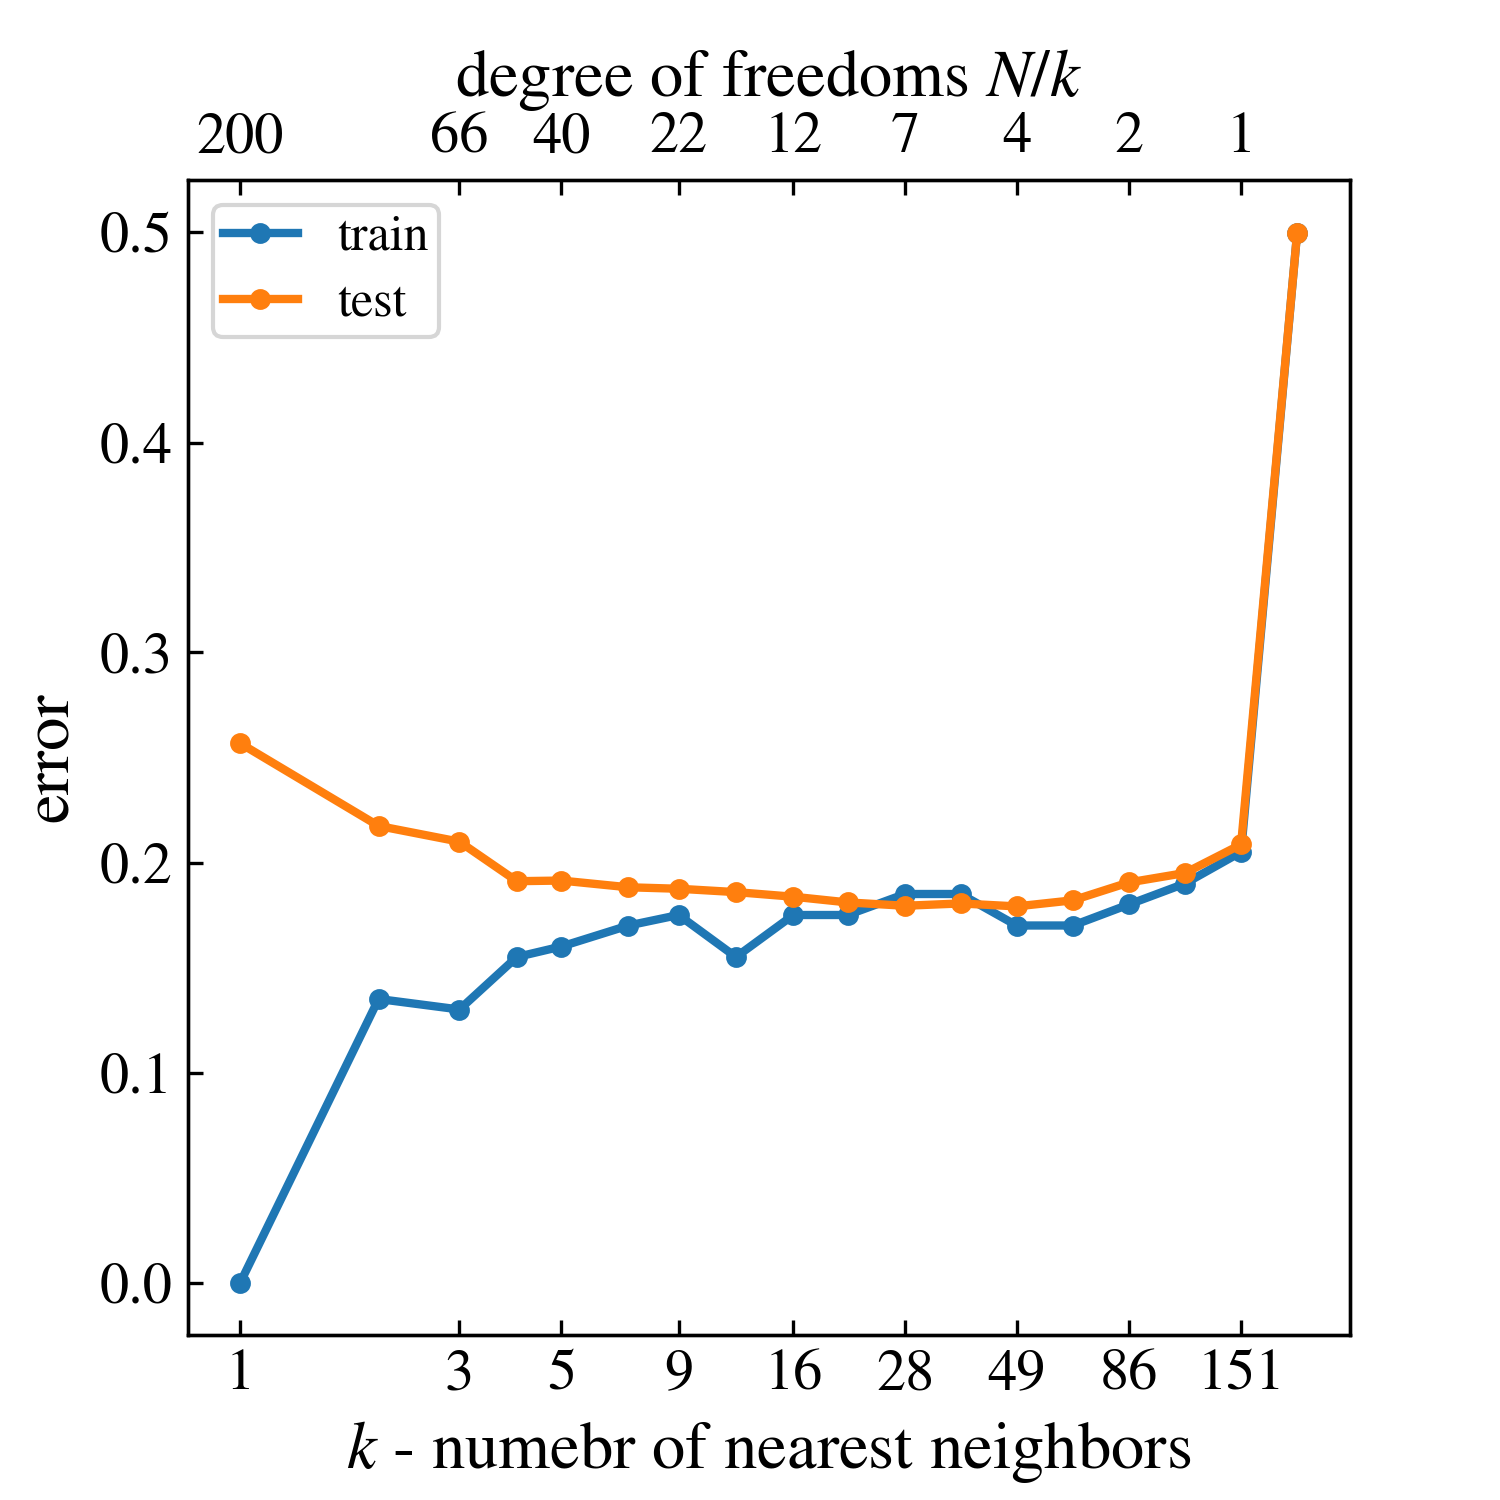
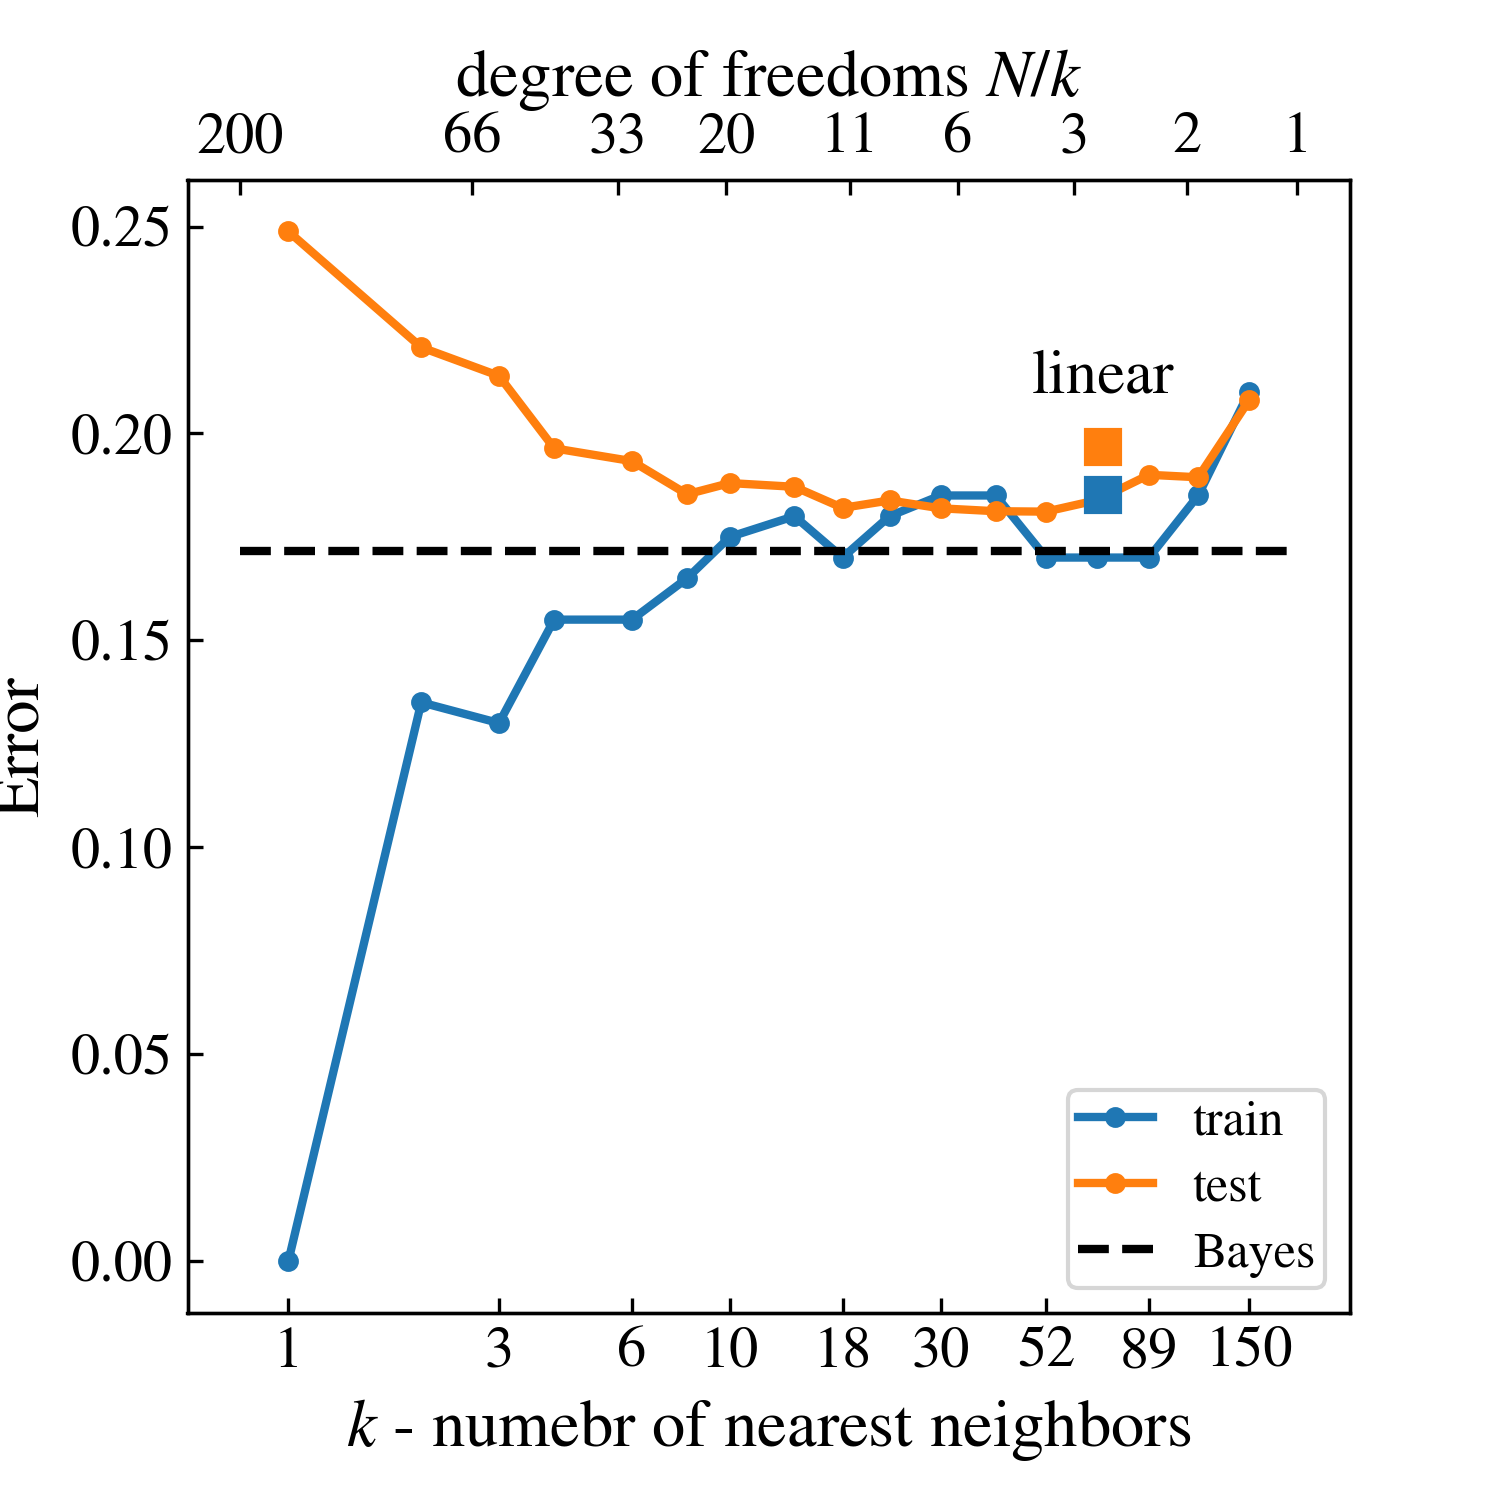
add exercise 2.1-2.3

diff --git a/chap2/binary_classification.py b/chap2/binary_classification.py
@@ -3,7 +3,7 @@ Binary Classification by Linear Regression and K-Nearest-Neighbor
 in Chapter 2 of The Elements of Statistical Learning
 
 author: zl
-update: 20200604
+update: 20200606
 """
 
 #%% import
@@ -14,18 +14,20 @@ from matplotlib.colors import ListedColormap
 from sklearn.linear_model import LinearRegression
 from sklearn.neighbors import KNeighborsClassifier
 from sklearn.metrics import accuracy_score
+from scipy.stats import multivariate_normal
+from importlib import resources
 
 np.random.seed(0)
-plt.style.use('./utils/default_plot_style.mplstyle')
+plt.style.use('../utils/default_plot_style.mplstyle')
 
-SAVE_FIGURE = True
+SAVE_FIGURE = False
 DPI = 300
-DIR_FIGURE = './figure'
+DIR_FIGURE = '../figure'
 CHAPTER = 'ch2'
 PROBLEM = 'binary_class'
 
 #%% data generation
-def sample_generator(N, mean=None, n_mean=10, var_reduce=0.2):
+def sample_generator(N, mean=None, n_mean=10, var=0.2):
     """
     Generate binary (blue=0, orange=1) samples
         - equal number of sample each class
@@ -37,9 +39,9 @@ def sample_generator(N, mean=None, n_mean=10, var_reduce=0.2):
         n_mean = number of means
 
     Return:
-        X = samples of dimension (2*N, 2)
-        Y = labels of dimension (2*N, )
-        mean = mean values of the points for generating samples
+        X = sample data points, shape = (2*N, 2)
+        Y = class labels, 0=blue, 1=orange, shape = (2*N, )
+        mean = mean values of the points to generate sample data
     """
 
     I = np.identity(2)
@@ -55,7 +57,7 @@ def sample_generator(N, mean=None, n_mean=10, var_reduce=0.2):
     for y, m in class_.items():
         for _ in range(N):
             mk = m[np.random.choice(n_mean)]
-            x = np.random.multivariate_normal(mean=mk, cov=var_reduce*I, size=1)
+            x = np.random.multivariate_normal(mean=mk, cov=var*I, size=1)
             X.append(x)
             Y.append(y)
 
@@ -92,7 +94,9 @@ def plot_obs(X, Y, xlim=None, ylim=None, ax=None, is_save=False, dpi=300):
     return fig, ax
 
 N = 100
-X, Y, mean = sample_generator(N)
+N_MEAN = 10
+VAR = 0.2
+X, Y, mean = sample_generator(N, n_mean=N_MEAN, var=VAR)
 fig, ax = plot_obs(X, Y, xlim=[-3, 4], ylim=[-3, 4])
 
 #%% Binary classification model
@@ -137,11 +141,44 @@ k = 1
 knn = KNeighborsClassifier(n_neighbors=k).fit(X, Y)
 title = '{}-Nearest Neighbor Classifier'.format(k)
 plot_decision_boundary(knn, X, Y, xlim=[-3, 4], ylim=[-3, 4], title=title, is_save=SAVE_FIGURE)
+plt.show()
+
+# Bayesian
+class BayesianClassifier(object):
+    """
+    Bayesian classifier using the data generator
+    """
+    def __init__(self, n_class, mean, var):
+        self.n_class = n_class
+        self.mean = mean
+        self.cov = var*np.identity(n_class)
+
+    def Pr(self, X):
+        """
+        Compute probability of each class
+        """
+        p = np.zeros((X.shape[0], self.n_class))
+        for i in range(self.n_class):
+            for m in self.mean[i]:
+                p[:,i] += multivariate_normal.pdf(X, mean=m, cov=self.cov)
+        return p
+
+    def predict(self, X):
+        """
+        Make prediction
+        """
+        Y = np.argmax(self.Pr(X), axis=1)
+        return Y
+
+bayes = BayesianClassifier(2, mean, VAR)
+title = 'Bayesian Classifier'
+plot_decision_boundary(bayes, X, Y, xlim=[-3, 4], ylim=[-3, 4], title=title, is_save=SAVE_FIGURE)
+plt.show()
 
 #%% Test Error vs k
-def plot_knn_err(kk, train_err, test_err, lin_train_err=None, lin_test_err=None, is_save=False):
+def plot_knn_err(kk, train_err, test_err, lin_train_err=None, lin_test_err=None, bayes_err=None, is_save=False):
     """
-    Plot test and training error for different number of nearest neighbors
+    Plot test and training error for different degrees of freedoms and number of nearest neighbors
     """
 
     fig, ax = plt.subplots(1, 1)
@@ -153,9 +190,8 @@ def plot_knn_err(kk, train_err, test_err, lin_train_err=None, lin_test_err=None,
     ax.set_xticks(kk[::2])
     ax.set_xticklabels(kk[::2])
     ax.set_xlabel(r'$k$ - numebr of nearest neighbors')
-    ax.set_ylabel('error')
+    ax.set_ylabel('Error')
     ax.minorticks_off()
-    ax.legend()
 
     dof = (2*N/kk).astype(np.int)
     ax2 = ax.twiny()
@@ -166,21 +202,28 @@ def plot_knn_err(kk, train_err, test_err, lin_train_err=None, lin_test_err=None,
     ax2.set_xlabel(r'degree of freedoms $N/k$')
     ax2.minorticks_off()
 
+    if lin_train_err:
+        xlin = 70
+        ax.plot(xlin, lin_train_err, 's', color='C0', markersize=8)
+        ax.plot(xlin, lin_test_err, 's', color='C1', markersize=8)
+        ax.text(xlin, lin_test_err+0.01, 'linear', ha='center', va='bottom')
+
+    if bayes_err:
+        xlim = ax.get_xlim()
+        ax.plot(xlim, [bayes_err]*2, 'k--', label='Bayes')
+
+    ax.legend(loc='best')
+
     if is_save == True:
         fn = os.path.join(DIR_FIGURE, '_'.join([CHAPTER, PROBLEM, 'knn_err']))
         plt.savefig(fn, dpi=DPI)
-
-    xlin = 70
-    ax.plot(xlin, lin_train_err, 's', color='C0', markersize=8)
-    ax.plot(xlin, lin_test_err, 's', color='C1', markersize=8)
-    ax.text(xlin, lin_test_err+0.01, 'linear', ha='center', va='bottom')
 
     return fig, ax
 
 
 X_test, Y_test, _ = sample_generator(5000, mean)
 
-kk = np.unique(np.logspace(0, np.log10(200), num=20).astype(np.int))
+kk = np.unique(np.logspace(0, np.log10(151), num=20).astype(np.int))
 knn_train_err = []
 knn_test_err = []
 for k in kk:
@@ -193,5 +236,7 @@ for k in kk:
 lin_train_err = 1 - accuracy_score(Y, reg.predict(X)>0.5)
 lin_test_err = 1 - accuracy_score(Y_test, reg.predict(X_test)>0.5)
 
-plot_knn_err(kk, knn_train_err, knn_test_err, lin_train_err, lin_test_err, is_save=SAVE_FIGURE)
+bayes_err = 1 - accuracy_score(Y_test, bayes.predict(X_test))
+
+plot_knn_err(kk, knn_train_err, knn_test_err, lin_train_err, lin_test_err, bayes_err, is_save=True)
 plt.show()

diff --git a/chap2/exercise.md b/chap2/exercise.md
@@ -1,0 +1,102 @@
+# Exercise of Chapter 2
+
+Suppose each of K-classes has an associated target $t_k$, which is a vector of all zeros, except a one in the $k$th position. Show that classifying to the largest element of $\hat{y}$ amounts to choosing the closest target, $\text{min}_k ||t_k − \hat{y}||$, if the elements of $\hat{y}$ sum to one.
+
+
+> Essetially, it is to prove $\text{argmin}_k||t_k - \hat{y}||$ is equvalent to $\text{argmax}_k \hat{y}_k$, if $\sum\limits_i \hat{y}_i = 1$.
+>
+> $$\begin{aligned} \text{argmin}_k ||t_k - \hat{y}||^2 & = \text{argmin}_k \big( \sum\limits_{i\neq k} \hat{y}_i^2 + (1-\hat{y}_k)^2 \big) \\
+& = \text{argmin}_k \big(\sum\limits_i \hat{y}_i^2 - 2\hat{y}_k + 1 \big) \\
+& = \text{argmin}_k (-\hat{y}_k) \\
+& = \text{argmax}_k \hat{y}_k \end{aligned}$$
+> Note that $\sum\limits_i \hat{y}_i = 1$ is not necessary.
+
+**Ex. 2.2**
+Show how to compute the Bayes decision boundary for the simulation example in Figure 2.5.
+
+
+> The data generation process first produces 10 mean points $m_k$ for each class, then randomly pick one of these mean points to generate the data points by a bivariate Gaussian distribution $\mathcal{N}(m_k, \bm{I}_m)$, where the covariance matrix $\bm{I}_m =\begin{bmatrix} 0.2 & 0 \\ 0 & 0.2 \end{bmatrix}$.
+>
+> The Bayesian desicion boundary is given by the Bayesian classifier, which predicts the class by
+>
+> $$\hat{G} = \underset{g \in \mathcal{G}}{\text{argmax}} \, \text{Pr} (g| X = x)$$
+>
+> The conditional probability $\text{Pr} (g| X = x)$ can be inferred from the data generation process. For example, for the blue class ($g=0$), the condional probability is the sum of the generation probabilities from the 10 mean points, i.e,
+>
+> $$\begin{aligned}
+\text{Pr} (g=0| X = x) & = \sum\limits_{k=1}^{10} f(x) \\
+ & = \sum\limits_{k=1}^{10} \frac{1}{2\pi \sqrt{|\bm{I}_m|}} \exp\big(-\frac{1}{2} (x-m^{(0)}_k)^T\bm{I}_m^{-1} (x-m^{(0)}_k)\big)
+\end{aligned}$$
+>
+> Similarly,
+>
+> $$\text{Pr} (g=1| X = x) = \sum\limits_{k=1}^{10} \frac{1}{2\pi \sqrt{|\bm{I}_m|}} \exp\big(-\frac{1}{2} (x-m^{(1)}_k)^T\bm{I}_m^{-1} (x-m^{(1)}_k)\big).$$
+>
+> And the Bayesian decision boundary locates at where
+>
+> $$\text{Pr} (g=0| X = x) = \text{Pr} (g=1| X = x).$$
+>
+> Sample python code
+```python
+class BayesianClassifier(object):
+    """
+    Bayesian classifier using the data generator
+    """
+    def __init__(self, n_class, mean, var):
+        self.n_class = n_class
+        self.mean = mean
+        self.cov = var*np.identity(n_class)
+
+    def Pr(self, X):
+        """
+        Compute probability of each class
+        """
+        p = np.zeros((X.shape[0], self.n_class))
+        for i in range(self.n_class):
+            for m in self.mean[i]:
+                p[:,i] += multivariate_normal.pdf(X, mean=m, cov=self.cov)
+        return p
+
+    def predict(self, X):
+        """
+        Make prediction
+        """
+        Y = np.argmax(self.Pr(X), axis=1)
+        return Y
+```
+
+**Ex. 2.3**
+Derive equation (2.24). Consider $N$ data points uniformly distributed in a $p$-dimensional unit ball centered at the origin. Suppose we consider a nearest-neighbor estimate at the origin. The median distance from the origin to the closest data point is given by the expression
+
+$$d(p, N) = (1-(\frac{1}{2})^{1/N})^{1/p}$$.
+
+> The $p$-dimensional volume of a Euclidean ball of radius $r$ in $p$-dimensional Euclidean space is [^1]
+>
+> $$V_p(r) = \frac{\pi^{p/2}}{\Gamma(p/2 + 1)} r^p.$$
+>
+> Denote the distance from the origin as a random variable $Y$, and the cumulative distribution function (CDF), denoted as $F$, of the distance is proportional to the volume of the hypersphere,
+>
+> $$F_Y (r) = \text{Pr}(Y<r) \sim r^p$$,
+> Since $\text{Pr}(Y<1)=1$, $F_Y (r) = r^p$.
+>
+> Assume $N$ independent random variables $Y_1, Y_2, \cdots, Y_N$, and denote the variable with the closest distance as $Y_\mathrm{min}$. The cumulative distribution function of the closest distance is
+>
+> $$F_{Y_\mathrm{min}}(x; N) = \text{Pr} (Y_\mathrm{min}\leq x; N) = \text{Pr}(\#[(Y_1, Y_2, \cdots, Y_N)\leq x]\geq 1),$$
+>
+> where $\#[(Y_1, Y_2, \cdots, Y_N)\leq x]$ denotes the number of variables less than $x$.
+>
+> Due to the independence of the variables,
+>
+> $$\begin{aligned}
+F_{Y_\mathrm{min}}(r; N) & = \sum\limits_{i=1}^N {N \choose i} F_Y(r)^i \big( 1-F_Y(r)\big)^{N-i} \\
+& = \sum\limits_{i=0}^N {N \choose i} F_Y(r)^i \big( 1-F_Y(r)\big)^{N-i} - \big(1-F_Y(r)\big)^{N} \\
+& = \big( F_Y(r) + 1-F_Y(r) \big)^N - \big(1-F_Y(r)\big)^{N} \\
+& = 1 - \big(1-F_Y(r)\big)^{N}
+\end{aligned}$$
+>
+> The median distance is obtained when $F_{Y_\mathrm{min}}(r; N) = 1/2$, thus
+>
+> $$ d(p, N) = \text{median}(Y_\mathrm{min})= (1-(\frac{1}{2})^{1/N})^{1/p}$$
+>
+
+[^1]: https://en.wikipedia.org/wiki/Volume_of_an_n-ball
